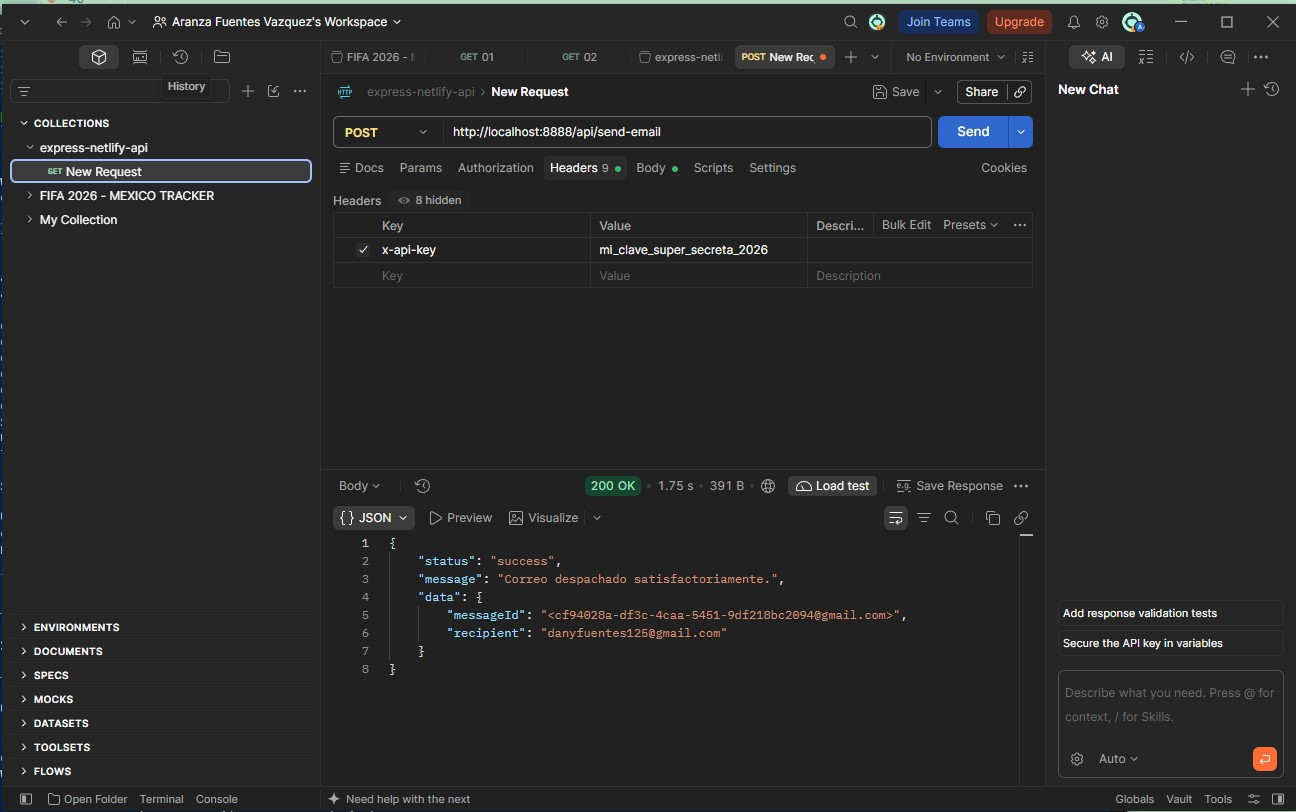
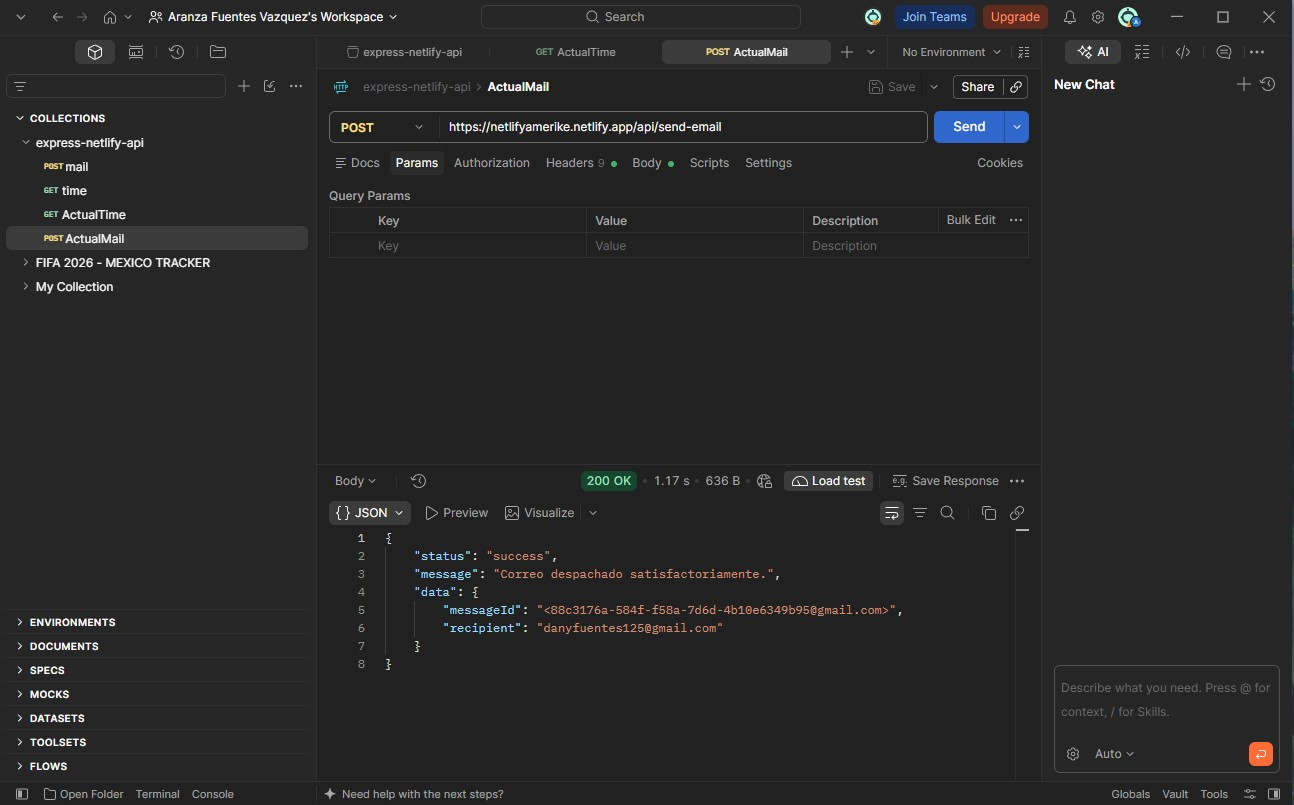
Fourth

diff --git a/README.md b/README.md
@@ -1,1 +1,44 @@
 ![Prueba Postman de GMAIL](./assets/gmail.jpg)
+![Prueba Postman de GMAIL2](./assets/gmail2.jpg)
+![Prueba Postman de Time](./assets/time.jpg)
+![Netlify](./assets/netlify.jpg)
+
+1. Cold Start en funciones serverless y Express
+El Cold Start es el fenómeno que ocurre cuando una plataforma serverless (como AWS Lambda o Netlify Functions) recibe una petición después de un periodo de inactividad en el que no hay instancias activas ejecutando la función.
+Para procesar la petición, la infraestructura debe realizar un proceso completo de inicialización:
+-Aprovisionar un contenedor o entorno de ejecución limpio.
+-Descargar el código fuente.
+-Inicializar el runtime de Node.js y ejecutar el código de nivel superior (incluyendo la carga de módulos, la importación de Express, la configuración de middlewares, rutas y la conexión inicial a bases de datos).
+
+Impacto en una API con Express: La primera petición experimenta una latencia alta (entre cientos de milisegundos y varios segundos). Una vez inicializado, el entorno permanece activo temporalmente, permitiendo que las peticiones posteriores respondan de forma inmediata. Al empaquetar una aplicación Express completa dentro de una función serverless, todo el árbol de dependencias de Express se carga durante ese arranque en frío, incrementando ligeramente el tiempo de latencia inicial en comparación con funciones serverless nativas y ultra-minimistas.
+
+2. Estado Efímero (Statelessness) en variables globales
+El uso de una variable global como let contador = 0; en el archivo de un servidor (como Node.js/Express) para contar visitas en producción es una mala práctica porque los servidores modernos son sin estado (stateless), se ejecutan en múltiples instancias independientes y se reinician constantemente.
+Esto hace que el valor de la variable sea completamente inconsistente e impredecible.
+
+Las 3 razones principales de su impredecibilidad
+
+-1. Múltiples instancias 
+En producción, para soportar miles de usuarios, tu aplicación no corre en un solo proceso. Se utilizan balanceadores de carga y herramientas como PM2, Docker o servicios Cloud (AWS, Google Cloud, Heroku) que levantan múltiples réplicas (instancias) de tu servidor.
+• Cada instancia tiene su propia memoria aislada.
+• Si la Instancia A atiende a un usuario, incrementará su propio contador a 1.
+• Si la siguiente petición la atiende la Instancia B, leerá su propio contador, que sigue en 0, y lo subirá a 1.
+• El usuario verá que el número de visitas salta de forma caótica dependiendo de qué servidor responda la petición.
+
+-2. Reinicios y ciclo de vida efímero (Volatilidad de la Memoria)
+La memoria RAM de un servidor en producción es efímera. Tu variable contador volverá a 0 cada vez que ocurra lo siguiente:
+• El servidor se reinicie por una nueva implementación de código (deploy).
+• El servidor se apague automáticamente por inactividad (como ocurre en plataformas Serverless como AWS Lambda o Vercel, donde el entorno se destruye tras unos minutos sin uso).
+• El proceso falle y se reinicie automáticamente para recuperarse de un error.
+
+-3. Arquitectura Serverless (Funciones Cloud)
+Si tu API se despliega en un entorno Serverless, el concepto de "variable global persistente" desaparece por completo. Cada petición puede levantar un contenedor totalmente nuevo desde cero, ejecutando el script de manera limpia y destruyéndolo inmediatamente después, haciendo imposible acumular un conteo en memoria.
+
+3. Patrón Adapter y serverless-http
+Express.js no puede procesar directamente los eventos de AWS Lambda o Netlify porque fue diseñado para mantener un proceso vivo escuchando conexiones de red TCP continuas a través del módulo nativo de Node.js, mientras que las arquitecturas serverless operan mediante funciones efímeras que reciben y devuelven eventos estáticos en formato JSON. Cuando un enrutador como API Gateway invoca una función, le envía un diccionario de datos que Express simplemente no sabe interpretar, ya que su núcleo está programado para leer flujos de bytes y escribir respuestas a través de un socket de red, no para leer propiedades aisladas de un objeto.
+Para resolver esta incompatibilidad de interfaces, se aplica el patrón adaptador mediante la librería 'serverless-http', cuya función exacta es actuar como un traductor bidireccional en memoria. Al recibir el evento estático de AWS o Netlify, el adaptador construye objetos simulados que imitan a la perfección la solicitud y respuesta nativas de Node.js. Posteriormente, inyecta estos objetos falsos en la aplicación de Express, engañándola para que procese la ruta como si proviniera de una conexión web tradicional.
+Una vez que Express ejecuta sus middlewares y finaliza la respuesta, en lugar de intentar enviarla por la red, 'serverless-http' captura los datos del objeto simulado y los reempaqueta en la estructura JSON exacta que espera el proveedor de la nube para finalizar la ejecución. Este mecanismo permite desplegar aplicaciones de Express completas en infraestructuras orientadas a eventos sin tener que modificar el código de la lógica de negocio original.
+
+4. Principios de 12-Factor App y Seguridad con variables de entorno
+Si se sube un archivo .env con credenciales reales a un repositorio público, bots automatizados y atacantes pueden extraerlas en cuestión de segundos. Esto puede resultar en el robo de datos, uso no autorizado de servicios de pago y facturación masiva y fraudulenta en servicios cloud (como AWS o APIs de IA).
+Netlify permite inyectar variables de entorno de forma segura directamente desde su panel de control o CLI. Estas variables se almacenan en el servidor de compilación y se exponen al entorno de ejecución solo cuando la aplicación corre, manteniéndose completamente ausentes del control de versiones.
